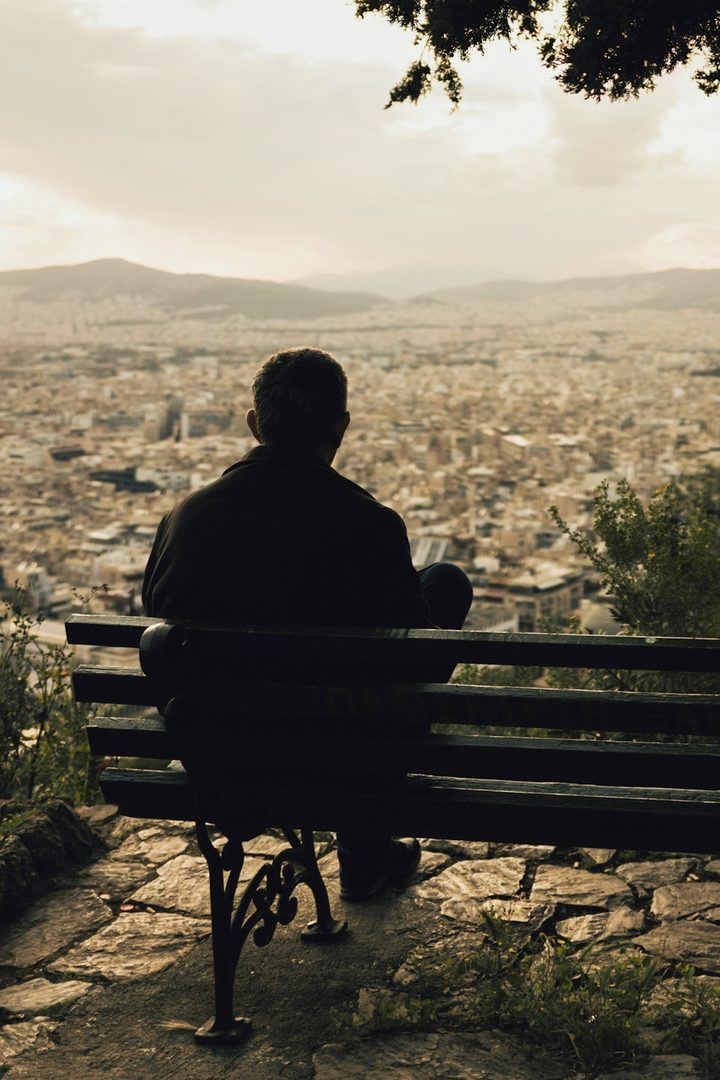
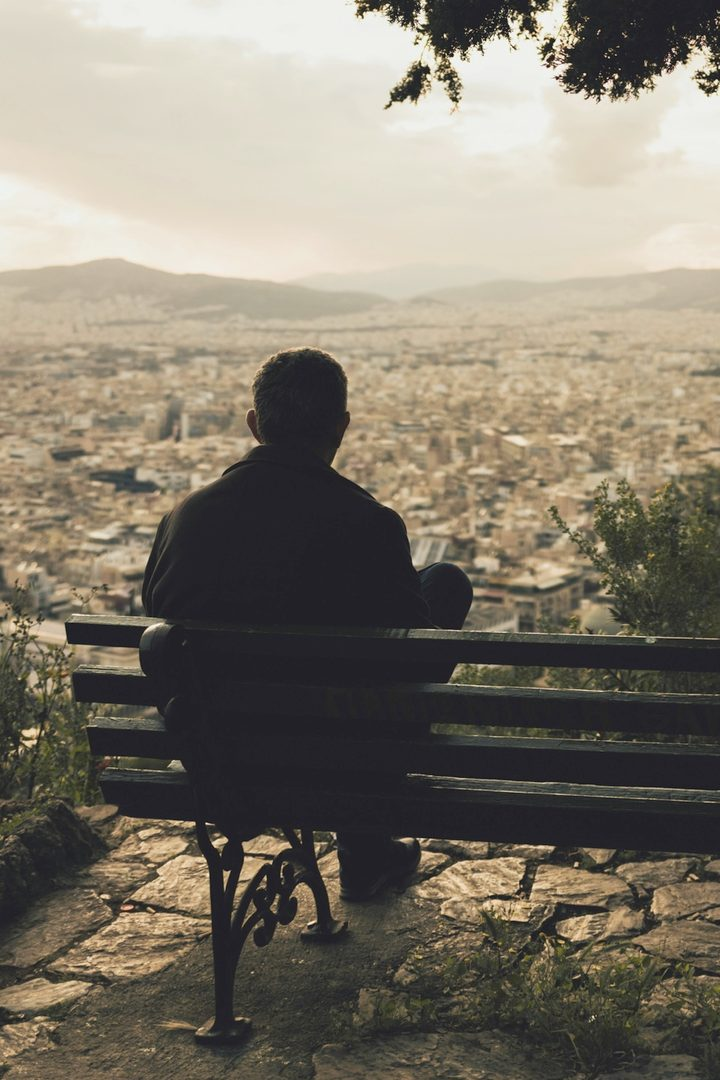
Faces: lighter shadows on the man, more side space on phones
Claude-Session: https://claude.ai/code/session_01UqJXqat2FRQq9rh2QPBq4v

diff --git a/fr/index.html b/fr/index.html
@@ -309,7 +309,7 @@
   .teaser .who { margin: 24px 0 28px; color: var(--muted); font-size: 14px; }
   .teaser .who em { display: block; font: italic 400 26px/1.2 var(--serif); color: var(--brown); margin-bottom: 2px; }
   @media (max-width: 860px) {
-    .faces { max-width: none; margin: 8px 0 0; }
+    .faces { max-width: none; margin: 8px 14px 0; width: auto; }
     .journeys { gap: 10px; margin-top: 26px; }
     .journeys img { border-radius: 12px; }
   }

diff --git a/index.html b/index.html
@@ -309,7 +309,7 @@
   .teaser .who { margin: 24px 0 28px; color: var(--muted); font-size: 14px; }
   .teaser .who em { display: block; font: italic 400 26px/1.2 var(--serif); color: var(--brown); margin-bottom: 2px; }
   @media (max-width: 860px) {
-    .faces { max-width: none; margin: 8px 0 0; }
+    .faces { max-width: none; margin: 8px 14px 0; width: auto; }
     .journeys { gap: 10px; margin-top: 26px; }
     .journeys img { border-radius: 12px; }
   }

diff --git a/pt/index.html b/pt/index.html
@@ -309,7 +309,7 @@
   .teaser .who { margin: 24px 0 28px; color: var(--muted); font-size: 14px; }
   .teaser .who em { display: block; font: italic 400 26px/1.2 var(--serif); color: var(--brown); margin-bottom: 2px; }
   @media (max-width: 860px) {
-    .faces { max-width: none; margin: 8px 0 0; }
+    .faces { max-width: none; margin: 8px 14px 0; width: auto; }
     .journeys { gap: 10px; margin-top: 26px; }
     .journeys img { border-radius: 12px; }
   }
